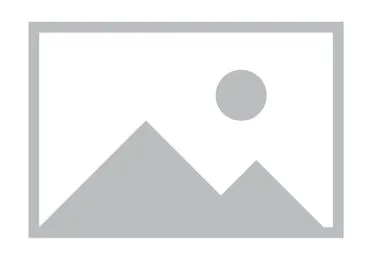
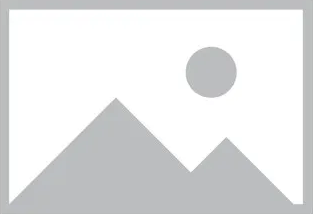
IMPLEMENTED | add product to cart

diff --git a/public/js/shop.js b/public/js/shop.js
@@ -6,3 +6,12 @@ function toggleVisibility(divID) {
     const div = document.getElementById(divID);
     div.style.display = (div.style.display === "none" || div.style.display === "") ? "flex" : "none";
 }
+
+function switchVisibility(firstDiv, secondDiv, displayType = "block") {
+    const fDiv = document.getElementById(firstDiv);
+    const sDiv = document.getElementById(secondDiv);
+
+    const firstIsVisible = window.getComputedStyle(fDiv).display !== "none";
+    fDiv.style.display = firstIsVisible ? "none" : displayType;
+    sDiv.style.display = firstIsVisible ? displayType : "none";
+}

diff --git a/public/css/shop.css b/public/css/shop.css
@@ -2,9 +2,13 @@
     display: none;
 }
 
+#shopping-cart {
+    display: none;
+}
+
 .product {
     display: flex;
-    border: 1px solid red;
+    border: 1px solid black;
     min-width: fit-content;
     gap: 1rem;
     flex-wrap: wrap;
@@ -13,4 +17,8 @@
 .product-image {
     max-height: 256px;
     max-width: 256px;
+}
+
+.no-inventory-text {
+    color: red;
 }

diff --git a/application/view/shop/index.php b/application/view/shop/index.php
@@ -58,8 +58,16 @@
 
             <?php endif; ?>
 
+            <div class="shopping-cart">
+                <button onclick="switchVisibility('product-list', 'shopping-cart')">view shopping cart</button>
+            </div>
+
+            <div id="shopping-cart">
+                <p>This is my shopping cart.</p>
+            </div>
+
             <br><br>
-            <div class="product-container">
+            <div class="product-container" id="product-list">
                 <?php foreach ($this->products as $product) { ?>
 
                     <div class="product">
@@ -85,9 +93,26 @@
                             <p class="product-name"><?php echo $product->name; ?></p>
                             <p class="product-description"><?php echo $product->description; ?></p>
                             <p class="product-category"><?php echo $product->category_name; ?></p>
-                            <p class="product-inventory"><?php echo empty($product->inventory_amount) ? "This product is currently unavailable" : $product->inventory_amount; ?></p>
+                            
+                            <?php if(!empty($product->inventory_amount)) { ?>
+                                <p><?php echo $product->inventory_amount; ?></p>
+
+                                <form action="<?php echo Config::get('URL'); ?>shop/addToCart" method="post">
+                                    <input type="hidden" name="productID" value="<?php echo $product->id; ?>">
+
+                                    <select name="productAmount">
+                                        <?php for ($i = 1; $i <= 100; $i++) { ?>
+                                            <option value="<?php echo $i; ?>"><?php echo $i; ?></option>
+                                        <?php } ?>
+                                    </select>
+                                    
+                                    <button type="submit" class="button">Place into cart</button>
+                                </form>
+                            <?php } else { ?>
+                                <p class="no-inventory-text">This product is currently unavailable</p>
+                            <?php } ?>
+
                         </div>
-                        
                     </div>
                 <?php } ?>
             </div>

diff --git a/application/model/ShopModel.php b/application/model/ShopModel.php
@@ -143,4 +143,32 @@ class ShopModel {
             }
         }
     }
+
+    public static function checkIfProductExists(int $productID) {
+        $database = DatabaseFactory::getFactory()->getConnection();
+
+        $sql = "SELECT * FROM shop_products WHERE id = :id LIMIT 1;";
+        $query = $database->prepare($sql);
+        $query->execute(array(
+            ':id' => $productID
+        ));
+
+        if (empty($query->fetch())) return false;
+        
+        return true;
+    }
+
+    public static function addProductToCart(int $productID, int $amount) {
+        $database = DatabaseFactory::getFactory()->getConnection();
+
+        $sql = "INSERT INTO shopping_cart (product_id, product_amount, owner_id)
+                VALUES (:id, :amount, :owner_id);";
+        $query = $database->prepare($sql);
+
+        $query->execute(array(
+            ':id' => $productID,
+            ':amount' => $amount,
+            ':owner_id' => Session::get('user_id')
+        ));
+    }
 }

diff --git a/application/controller/ShopController.php b/application/controller/ShopController.php
@@ -76,4 +76,22 @@ class ShopController extends Controller {
         Redirect::to('shop/index');
         Session::add('feedback_positive', 'Product successfully created!');
     }
+
+    public function addToCart() {
+        $userID = (int) Session::get('user_id');
+        $productID = (int) Request::post('productID');
+        $productAmount = (int) Request::post('productAmount');
+
+        if (!ShopModel::checkIfProductExists($productID)) {
+            Session::add('feedback_negative', 'The selected product does not exist. Something wen\'t wrong.');
+            Redirect::to('shop/index');
+            return;
+        }
+
+        ShopModel::addProductToCart($productID, $productAmount);
+
+        Session::add('feedback_positive', 'Product successfully added to cart.');
+        Redirect::to('shop/index');
+        return;
+    }
 }
